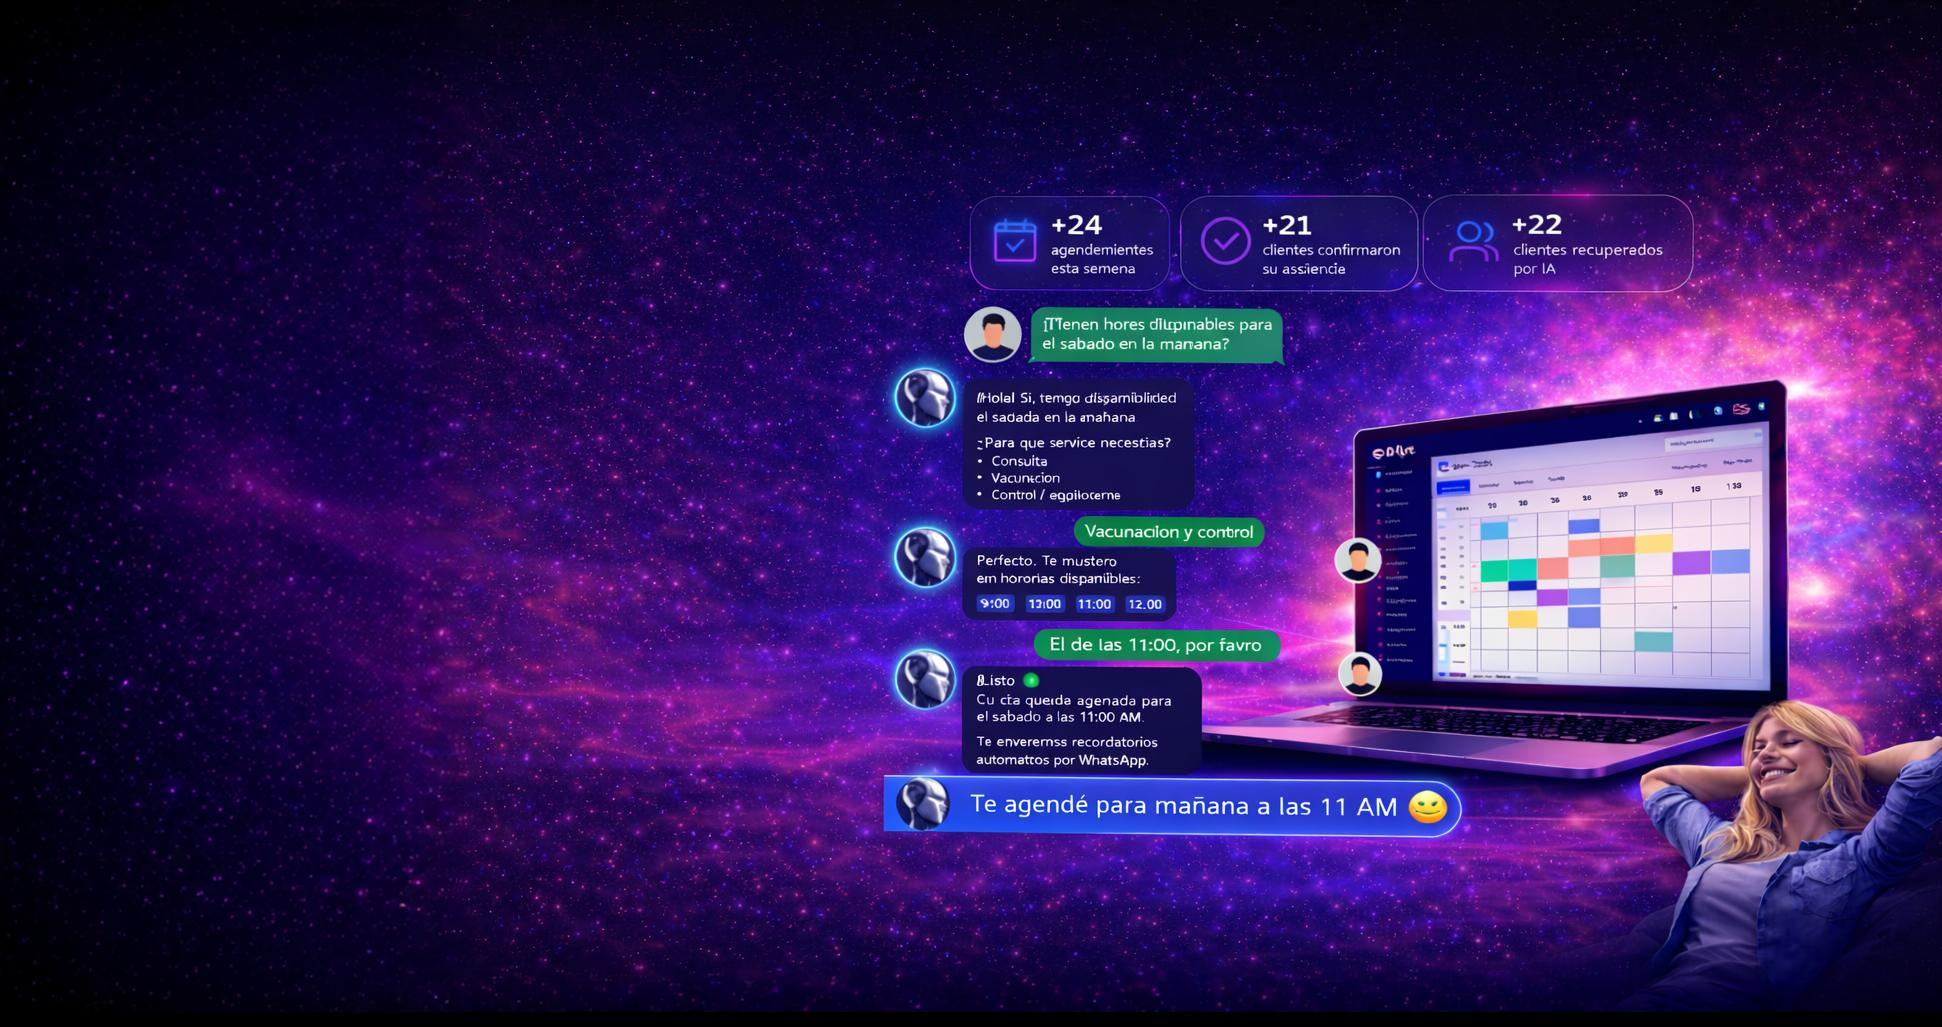
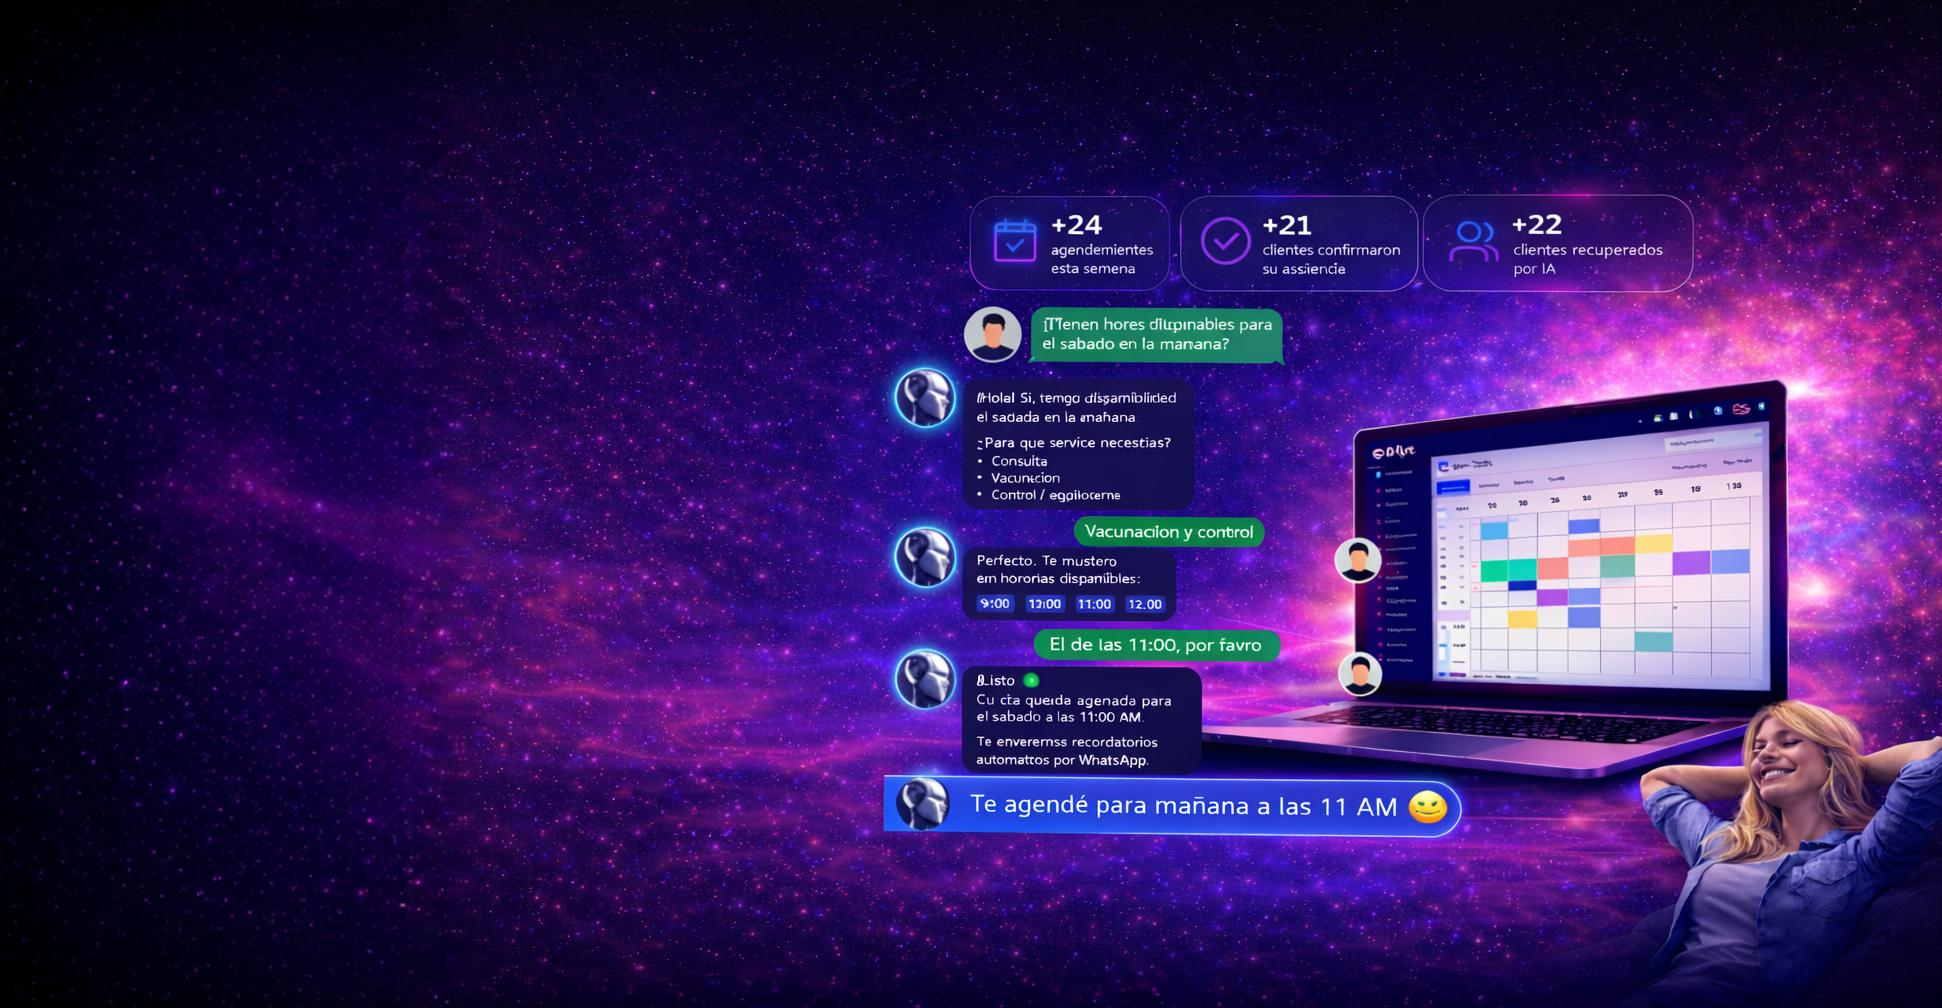
Ajusta hero final eliminando franja oscura

diff --git a/app/page.tsx b/app/page.tsx
@@ -32,23 +32,16 @@ export default function OrbyxLandingPage() {
 
   return (
     <main className="min-h-screen bg-[#050816] text-white">
-
-      {/* HERO */}
       <section className="relative overflow-hidden bg-[#050816]">
-
-        {/* FONDO */}
         <div className="absolute inset-0">
-          <div className="absolute inset-0 bg-[linear-gradient(90deg,rgba(5,8,22,0.98)_0%,rgba(5,9,24,0.94)_25%,rgba(7,10,28,0.65)_48%,rgba(7,10,28,0.25)_70%,rgba(7,10,28,0.08)_100%)]" />
+          <div className="absolute inset-0 bg-[linear-gradient(90deg,rgba(5,8,22,0.98)_0%,rgba(5,9,24,0.94)_24%,rgba(7,10,28,0.62)_46%,rgba(7,10,28,0.20)_72%,rgba(7,10,28,0.08)_100%)]" />
           <div className="absolute inset-0 bg-[radial-gradient(circle_at_18%_18%,rgba(59,130,246,0.12),transparent_24%),radial-gradient(circle_at_82%_16%,rgba(168,85,247,0.12),transparent_28%)]" />
         </div>
 
         <div className="relative mx-auto max-w-[1680px] px-6 pb-16 pt-16 lg:px-10 lg:pb-20 lg:pt-20">
-
-          <div className="grid items-center gap-6 lg:grid-cols-[minmax(700px,0.95fr)_minmax(900px,1.05fr)]">
-
+          <div className="grid items-center gap-4 lg:grid-cols-[minmax(700px,0.92fr)_minmax(980px,1.08fr)]">
             {/* TEXTO */}
             <div className="relative z-20 max-w-[760px]">
-
               <motion.div
                 initial={{ opacity: 0, y: 18 }}
                 animate={{ opacity: 1, y: 0 }}
@@ -109,14 +102,14 @@ export default function OrbyxLandingPage() {
               >
                 <Link
                   href="/register"
-                  className="rounded-xl bg-emerald-500 px-6 py-3 font-medium text-white hover:bg-emerald-400"
+                  className="rounded-xl bg-emerald-500 px-6 py-3 font-medium text-white transition hover:bg-emerald-400"
                 >
                   Probar gratis
                 </Link>
 
                 <Link
                   href="/planes"
-                  className="rounded-xl border border-white/30 px-6 py-3 font-medium text-white hover:bg-white/5"
+                  className="rounded-xl border border-white/30 px-6 py-3 font-medium text-white transition hover:bg-white/5"
                 >
                   Ver planes
                 </Link>
@@ -130,34 +123,30 @@ export default function OrbyxLandingPage() {
               transition={{ delay: 0.08 }}
               className="relative hidden lg:block"
             >
-              <div className="relative h-[640px] xl:h-[700px]">
+              <div className="relative h-[650px] xl:h-[720px]">
+                {/* glow */}
+                <div className="absolute right-[8%] top-[10%] z-0 h-[72%] w-[72%] rounded-full bg-fuchsia-500/10 blur-3xl" />
 
-                {/* GLOW */}
-                <div className="absolute right-[5%] top-[10%] z-0 h-[70%] w-[70%] rounded-full bg-fuchsia-500/10 blur-3xl" />
-
-                {/* IMAGEN PRINCIPAL (CLAVE) */}
-                <div className="absolute inset-y-0 right-[-6%] z-10 flex items-center">
+                {/* imagen principal */}
+                <div className="absolute inset-y-0 right-[-14%] z-10 flex items-center xl:right-[-16%]">
                   <Image
                     src="/images/hero-orbyx-final.png"
                     alt="Hero Orbyx"
                     width={1942}
                     height={1027}
                     priority
-                    className="w-[1150px] max-w-none xl:w-[1250px]"
+                    className="h-auto w-[1280px] max-w-none xl:w-[1360px]"
                   />
                 </div>
 
-                {/* FADE IZQUIERDO SUAVE */}
-                <div className="pointer-events-none absolute inset-y-0 left-0 z-20 w-[20%] bg-[linear-gradient(90deg,#050816_0%,rgba(5,8,22,0.85)_45%,rgba(5,8,22,0.35)_75%,transparent_100%)]" />
-
+                {/* fade izquierdo suave y corto */}
+                <div className="pointer-events-none absolute inset-y-0 left-0 z-20 w-[12%] bg-[linear-gradient(90deg,#050816_0%,rgba(5,8,22,0.72)_45%,rgba(5,8,22,0.18)_78%,transparent_100%)]" />
               </div>
             </motion.div>
-
           </div>
         </div>
       </section>
 
-      {/* RESULTADOS */}
       <section className="py-20">
         <div className="mx-auto max-w-[1300px] px-6">
           <div className="grid gap-6 md:grid-cols-3">
@@ -177,7 +166,6 @@ export default function OrbyxLandingPage() {
           </div>
         </div>
       </section>
-
     </main>
   );
 }
